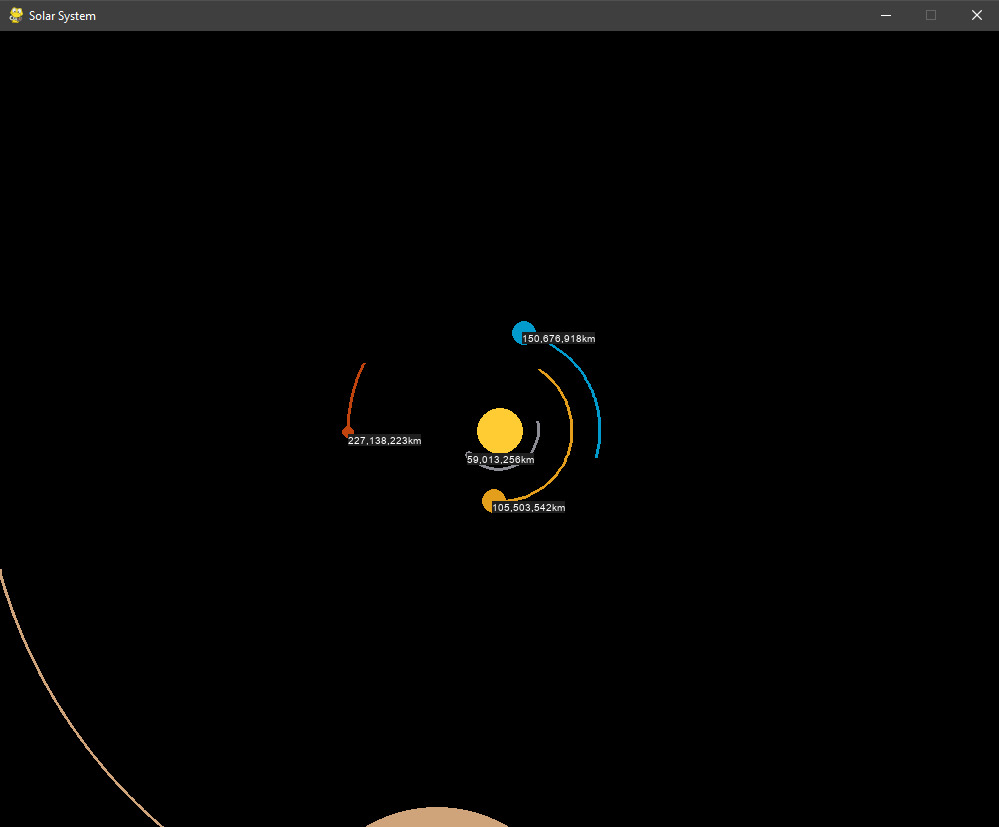
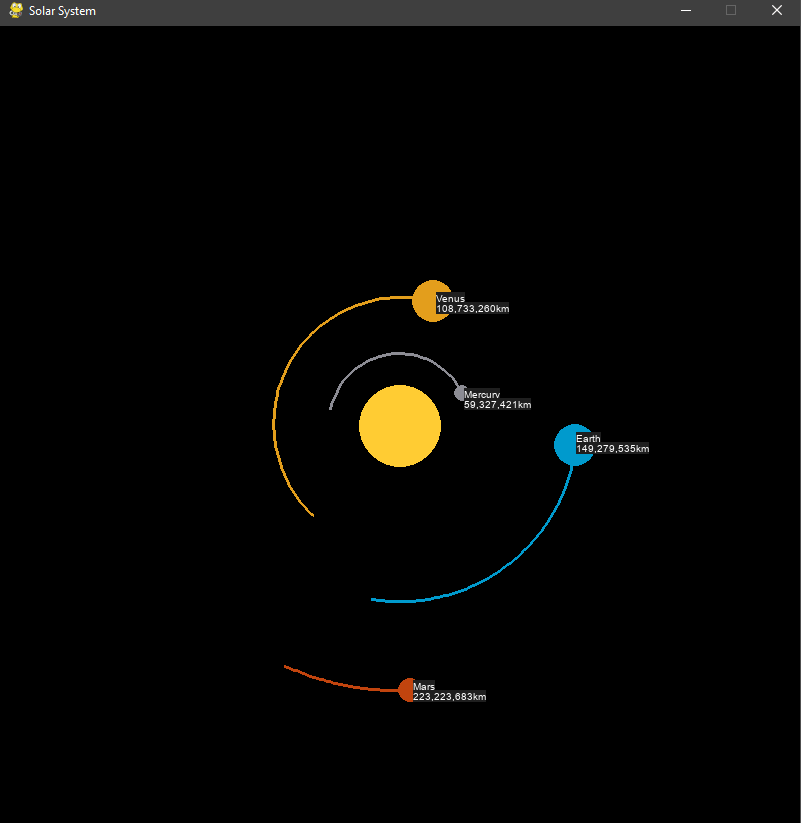
added simulation scaling

diff --git a/celestial.py b/celestial.py
@@ -17,7 +17,7 @@ class Celestial(ABC):
     TIMESTEP = 3600*24 # seconds in a day
     G = 6.67430e-11 # gravitational constant
 
-    def __init__(self, x: float, y: float, mass: float, radius: float, display: Any, color: Any) -> None:
+    def __init__(self, x: float, y: float, mass: float, radius: float, display: Any, color: Any, name: str) -> None:
         super().__init__()
 
         self.mass = mass
@@ -33,13 +33,16 @@ class Celestial(ABC):
         self.display = display
         self.color = color
 
+        self.orbit_scale = 1496000000 # 1AU = 100px default value
+        self.name = name
+
         self.SCALE = 1 # arbitrary constant number to scale actual radius of the celestial object to fit the simulation dimensions
 
     def draw(self) -> None:
         """Draws the body on the display to scale
         """
-        x = self.x / 1496000000 + (self.display.get_width() / 2) # 1AU = 100px
-        y = self.y / 1496000000 + (self.display.get_height() / 2) # 1AU = 100px
+        x = self.x / self.orbit_scale + (self.display.get_width() / 2)
+        y = self.y / self.orbit_scale + (self.display.get_height() / 2)
         pg.draw.circle(self.display, self.color, (x, y), self.radius / self.SCALE) 
 
     def format_number(self, number: int) -> str:
@@ -57,8 +60,8 @@ class Star(Celestial):
     Represents a star at the center of the solar system
 
     """
-    def __init__(self, x, y, mass, radius, display, color) -> None:
-        super().__init__(x, y, mass, radius, display, color)
+    def __init__(self, x, y, mass, radius, display, color, name) -> None:
+        super().__init__(x, y, mass, radius, display, color, name)
         self.SCALE = 30000
 
 
@@ -70,8 +73,8 @@ class Planet(Celestial):
     velocity - The oribtal speed of the planet around its star in km/s
 
     """
-    def __init__(self, x, y, mass, radius, display, color, velocity: float) -> None:
-        super().__init__(x, y, mass, radius, display, color)
+    def __init__(self, x, y, mass, radius, display, color, velocity: float, name) -> None:
+        super().__init__(x, y, mass, radius, display, color, name)
         
         self.SCALE = 500
         self.vel_y = velocity * 1000 
@@ -129,24 +132,27 @@ class Planet(Celestial):
             updated_points = []
             for point in self.orbit:
                 x, y = point
-                x = x / 1496000000 + (self.display.get_width() / 2) # 1AU = 100px
-                y = y / 1496000000 + (self.display.get_height() / 2) # 1AU = 100px  
+                x = x / self.orbit_scale + (self.display.get_width() / 2)
+                y = y / self.orbit_scale + (self.display.get_height() / 2)  
                 updated_points.append((x, y))
             pg.draw.lines(self.display, self.color, False, updated_points, 3) 
 
-        if len(self.orbit) >= int(100 * (self.radius/6371)):
-            self.orbit.pop(0)     
+        if self.distance <= 500000000000:
+            if len(self.orbit) >= int(100 * (self.radius/6371)):
+                self.orbit.pop(0)     
 
     def distance_from_sun(self) -> None:
         """Draws the distance to the star in km
         """
-        x = self.x / 1496000000 + (self.display.get_width() / 2) # 1AU = 100px
-        y = self.y / 1496000000 + (self.display.get_height() / 2) # 1AU = 100px  
+        x = self.x / self.orbit_scale + (self.display.get_width() / 2)
+        y = self.y / self.orbit_scale + (self.display.get_height() / 2)  
         
         font = pg.font.SysFont('arial', 10)
-        render = font.render(f'{self.format_number(round(self.distance/1000))}km', True, 'white', (31, 31, 31))
+        dist = font.render(f'{self.format_number(round(self.distance/1000))}km', True, 'white', (31, 31, 31))
+        name = font.render(self.name.capitalize(), True, 'white', (31, 31, 31))
         
-        self.display.blit(render, (x,y))        
+        self.display.blit(name, (x, y - 10))
+        self.display.blit(dist, (x,y))        
 
     def update(self, celestials: list) -> None:
         """Executes all the functions of the class

diff --git a/main.py b/main.py
@@ -7,19 +7,19 @@ class Simulation:
         self.CLOCK = pg.time.Clock()
         pg.display.set_caption("Solar System")
 
-        self.sun = Star(0, 0, 1.989 * 10**30, 695950, self.WIN, '#FFCC33')
-        self.earth = Planet(-1, 0, 5.972 * 10**24, 6052, self.WIN, 'deepskyblue3', 29.78)
-        self.mars = Planet(-1.52, 0, 0.64 * 10**24, 3390, self.WIN, '#c1440e', 24)
-        self.saturn = Planet(9.54, 0, 586 * 10**24, 60268, self.WIN, '#ceb8b8', 9.7)
-        self.mercury = Planet(0.39, 0, 0.33 * 10 ** 24, 2438, self.WIN, '#8c8c94', 47.9)
-        self.venus = Planet(0.72, 0, 4.87 * 10**24, 6052, self.WIN, '#e39e1c', 35)
-        self.jupiter = Planet(-5.2, 0, 1898.60 * 10**24, 71492, self.WIN, '#d0a47a', 13.1)
-        self.uranus = Planet(19.2, 0, 86.62 * 10**24, 24973, self.WIN, '#8dc9ee', 6.8)
-        self.neptune = Planet(-30.06, 0, 102.42 * 10**24, 24764, self.WIN, '#1f2255', 5.4) 
-        self.pluto = Planet(39, 0, 0.01 * 10**24, 1152, self.WIN, 'azure3', 4.64)
+        self.sun = Star(0, 0, 1.989 * 10**30, 695950, self.WIN, '#FFCC33', 'sun')
+        self.earth = Planet(-1, 0, 5.972 * 10**24, 6052, self.WIN, 'deepskyblue3', 29.78, 'earth')
+        self.mars = Planet(-1.52, 0, 0.64 * 10**24, 3390, self.WIN, '#c1440e', 24, 'mars')
+        self.saturn = Planet(9.54, 0, 586 * 10**24, 60268, self.WIN, '#ceb8b8', 9.7, 'saturn')
+        self.mercury = Planet(0.39, 0, 0.33 * 10 ** 24, 2438, self.WIN, '#8c8c94', 47.9, 'mercury')
+        self.venus = Planet(0.72, 0, 4.87 * 10**24, 6052, self.WIN, '#e39e1c', 35, 'venus')
+        self.jupiter = Planet(-5.2, 0, 1898.60 * 10**24, 71492, self.WIN, '#d0a47a', 13.1, 'jupiter')
+        self.uranus = Planet(19.2, 0, 86.62 * 10**24, 24973, self.WIN, '#8dc9ee', 6.8, 'uranus')
+        self.neptune = Planet(-30.06, 0, 102.42 * 10**24, 24764, self.WIN, '#1f2255', 5.4, 'neptune') 
+        self.pluto = Planet(39, 0, 0.01 * 10**24, 1152, self.WIN, 'azure3', 4.64, 'pluto')
 
         self.bodies = [self.earth, self.mars, self.sun, self.saturn, self.mercury,
-                        self.venus, self.jupiter, self.uranus, self.neptune]
+                        self.venus, self.jupiter, self.uranus, self.neptune, self.pluto]
 
 
     def update_sim(self) -> None:
@@ -39,17 +39,18 @@ class Simulation:
     def resize_display(self) -> None:
         """Resize window dimensions using arrow keys
         """
-        width, height = self.WIN.get_width(), self.WIN.get_height()
+        scale = 0 
         if pg.key.get_pressed()[pg.K_UP]:
-            height += 100
-        elif pg.key.get_pressed()[pg.K_DOWN]:
-            height -= 100    
-        elif pg.key.get_pressed()[pg.K_LEFT]:
-            width -= 100    
-        elif pg.key.get_pressed()[pg.K_RIGHT]:
-            width += 100  
+            scale = 1.1
+        elif pg.key.get_pressed()[pg.K_DOWN]:  
+            scale = 0.9  
 
-        self.WIN = pg.display.set_mode((width, height))              
+        if scale <= 0:
+            return
+        
+        for body in self.bodies:
+            body.SCALE *= scale
+            body.orbit_scale *= scale             
 
     def run(self) -> None:
         while True:

diff --git a/readme.md b/readme.md
@@ -8,8 +8,7 @@ The real radii for all celestial bodies were used to track data correctly but th
 
 One thing that really struck me while making this simulation was realizing just how huge the universe really is as i was perplexed to why
 the orbits of Jupiter and further away planets from sun were not visible in my simulation. Only after resizing my window so much i was able to see Jupiter and Saturn, spreading it across my 2 monitors i was even able to catch Uranus.
-You can use the arrow keys to scale up and down the window as you please to try and find further away orbits.
-let me know if you have enough monitors to spot tiny Pluto :D
+You can use the arrow up/down keys to scale the simulation to look at all the orbits.
 
 I hope you have fun messing around with this as i think of more stuff to add to it.
 
